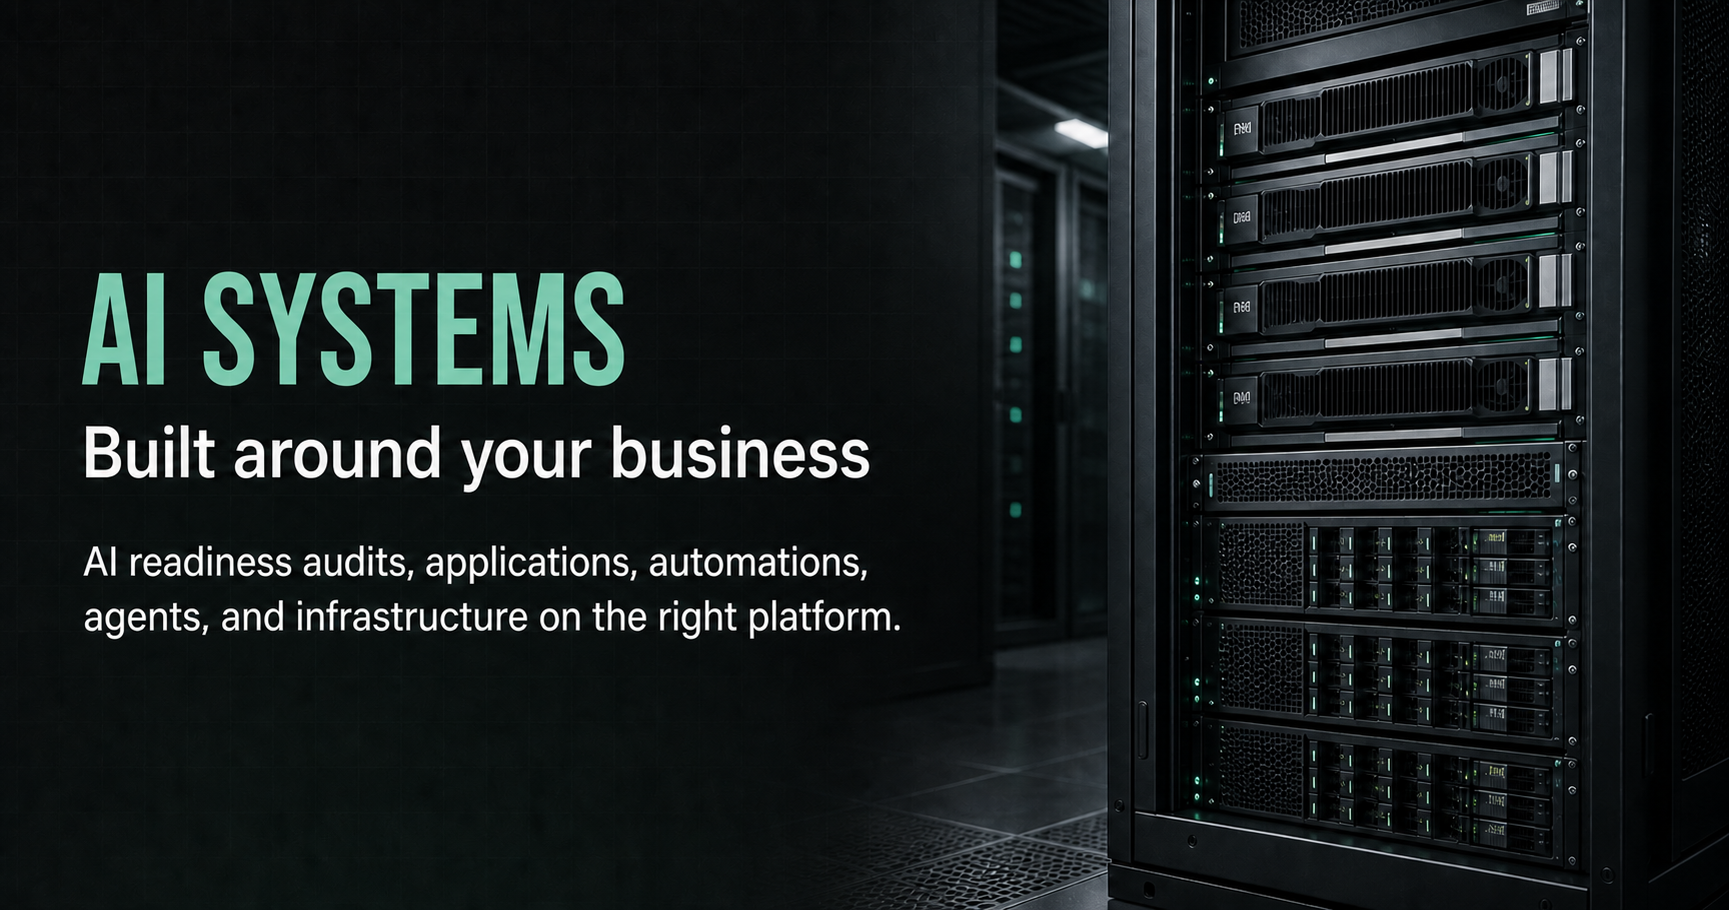
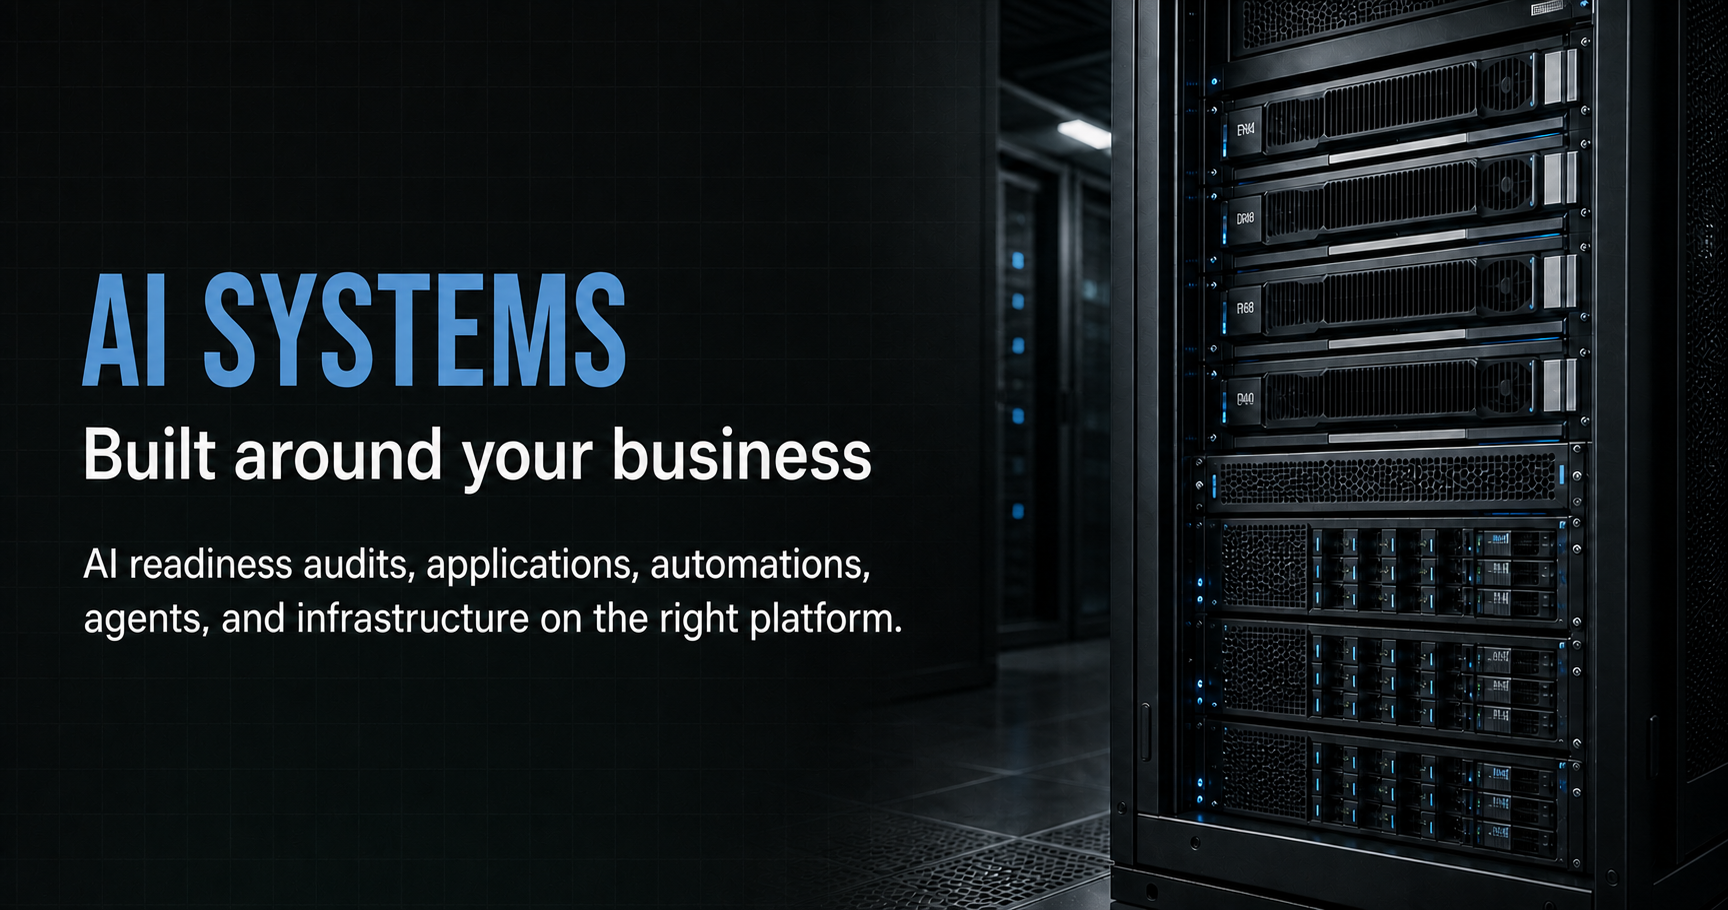
Pair red brand mark with steel blue accents

diff --git a/css/styles.css b/css/styles.css
@@ -2,7 +2,7 @@
  * AI General Concepts LTD
  * Dark, restrained, infrastructure-first.
  *
- * Palette: graphite neutrals + one mineral-green signal accent.
+ * Palette: graphite neutrals + one steel-blue signal accent.
  * Type: Geist (display + body), Geist Mono (labels, numerals).
  * Radius rule: interactive controls and inputs 8px; large panels 14px. Nothing else.
  */
@@ -16,10 +16,10 @@
   --text: #ececef;
   --text-2: #a6a6ad;
   --text-3: #84848d;
-  --accent: #80cfb6;
-  --accent-strong: #2f7c6b;
-  --accent-hover: #3c917d;
-  --accent-tint: rgba(128, 207, 182, 0.12);
+  --accent: #7fb2d6;
+  --accent-strong: #2f6f9f;
+  --accent-hover: #397aa9;
+  --accent-tint: rgba(127, 178, 214, 0.12);
   --radius-control: 8px;
   --radius-panel: 14px;
   --font-sans: 'Geist', -apple-system, BlinkMacSystemFont, 'Segoe UI', sans-serif;
@@ -133,7 +133,7 @@ p {
   z-index: 20;
   padding: 0.6rem 1rem;
   background: var(--accent-strong);
-  color: #f7fffb;
+  color: #f7fbff;
   border-radius: var(--radius-control);
   font-weight: 500;
 }
@@ -166,7 +166,7 @@ p {
 
 .btn-primary {
   background-color: var(--accent-strong);
-  color: #f7fffb;
+  color: #f7fbff;
 }
 
 .btn-primary:hover {
@@ -264,7 +264,7 @@ p {
 
 .nav a.btn-primary,
 .nav a.btn-primary:hover {
-  color: #f7fffb;
+  color: #f7fbff;
 }
 
 .nav-toggle {
@@ -314,7 +314,7 @@ p {
   height: 60vw;
   max-width: 820px;
   max-height: 820px;
-  background: radial-gradient(circle, rgba(128, 207, 182, 0.12) 0%, transparent 62%);
+  background: radial-gradient(circle, rgba(127, 178, 214, 0.12) 0%, transparent 62%);
   pointer-events: none;
 }
 
@@ -350,7 +350,7 @@ p {
   aspect-ratio: 1;
   border-radius: 50%;
   border: 1px solid var(--border-strong);
-  box-shadow: 0 24px 70px rgba(66, 151, 130, 0.25);
+  box-shadow: 0 24px 70px rgba(47, 111, 159, 0.28);
 }
 
 /* Sections: shared rhythm, slightly heavier bottom padding */
@@ -448,7 +448,7 @@ p {
 .infra {
   padding: 7rem 0;
   background:
-    radial-gradient(ellipse 70% 90% at 15% 0%, rgba(128, 207, 182, 0.09) 0%, transparent 60%),
+    radial-gradient(ellipse 70% 90% at 15% 0%, rgba(127, 178, 214, 0.09) 0%, transparent 60%),
     var(--bg);
 }
 
@@ -665,9 +665,9 @@ p {
 
 .form-status.error {
   display: block;
-  background: var(--accent-tint);
-  color: #9ce1c9;
-  border: 1px solid rgba(128, 207, 182, 0.4);
+  background: rgba(202, 62, 70, 0.1);
+  color: #ef9da0;
+  border: 1px solid rgba(202, 62, 70, 0.4);
 }
 
 .form-status.sending {

diff --git a/index.html b/index.html
@@ -11,7 +11,7 @@
     <meta property="og:type" content="website">
     <meta property="og:url" content="https://generalconcepts.ai/">
     <meta property="og:image" content="https://generalconcepts.ai/images/og-ai-systems.png">
-    <meta property="og:image:width" content="1729">
+    <meta property="og:image:width" content="1728">
     <meta property="og:image:height" content="910">
     <meta property="og:image:alt" content="AI Systems, built around your business">
     <meta name="twitter:card" content="summary_large_image">